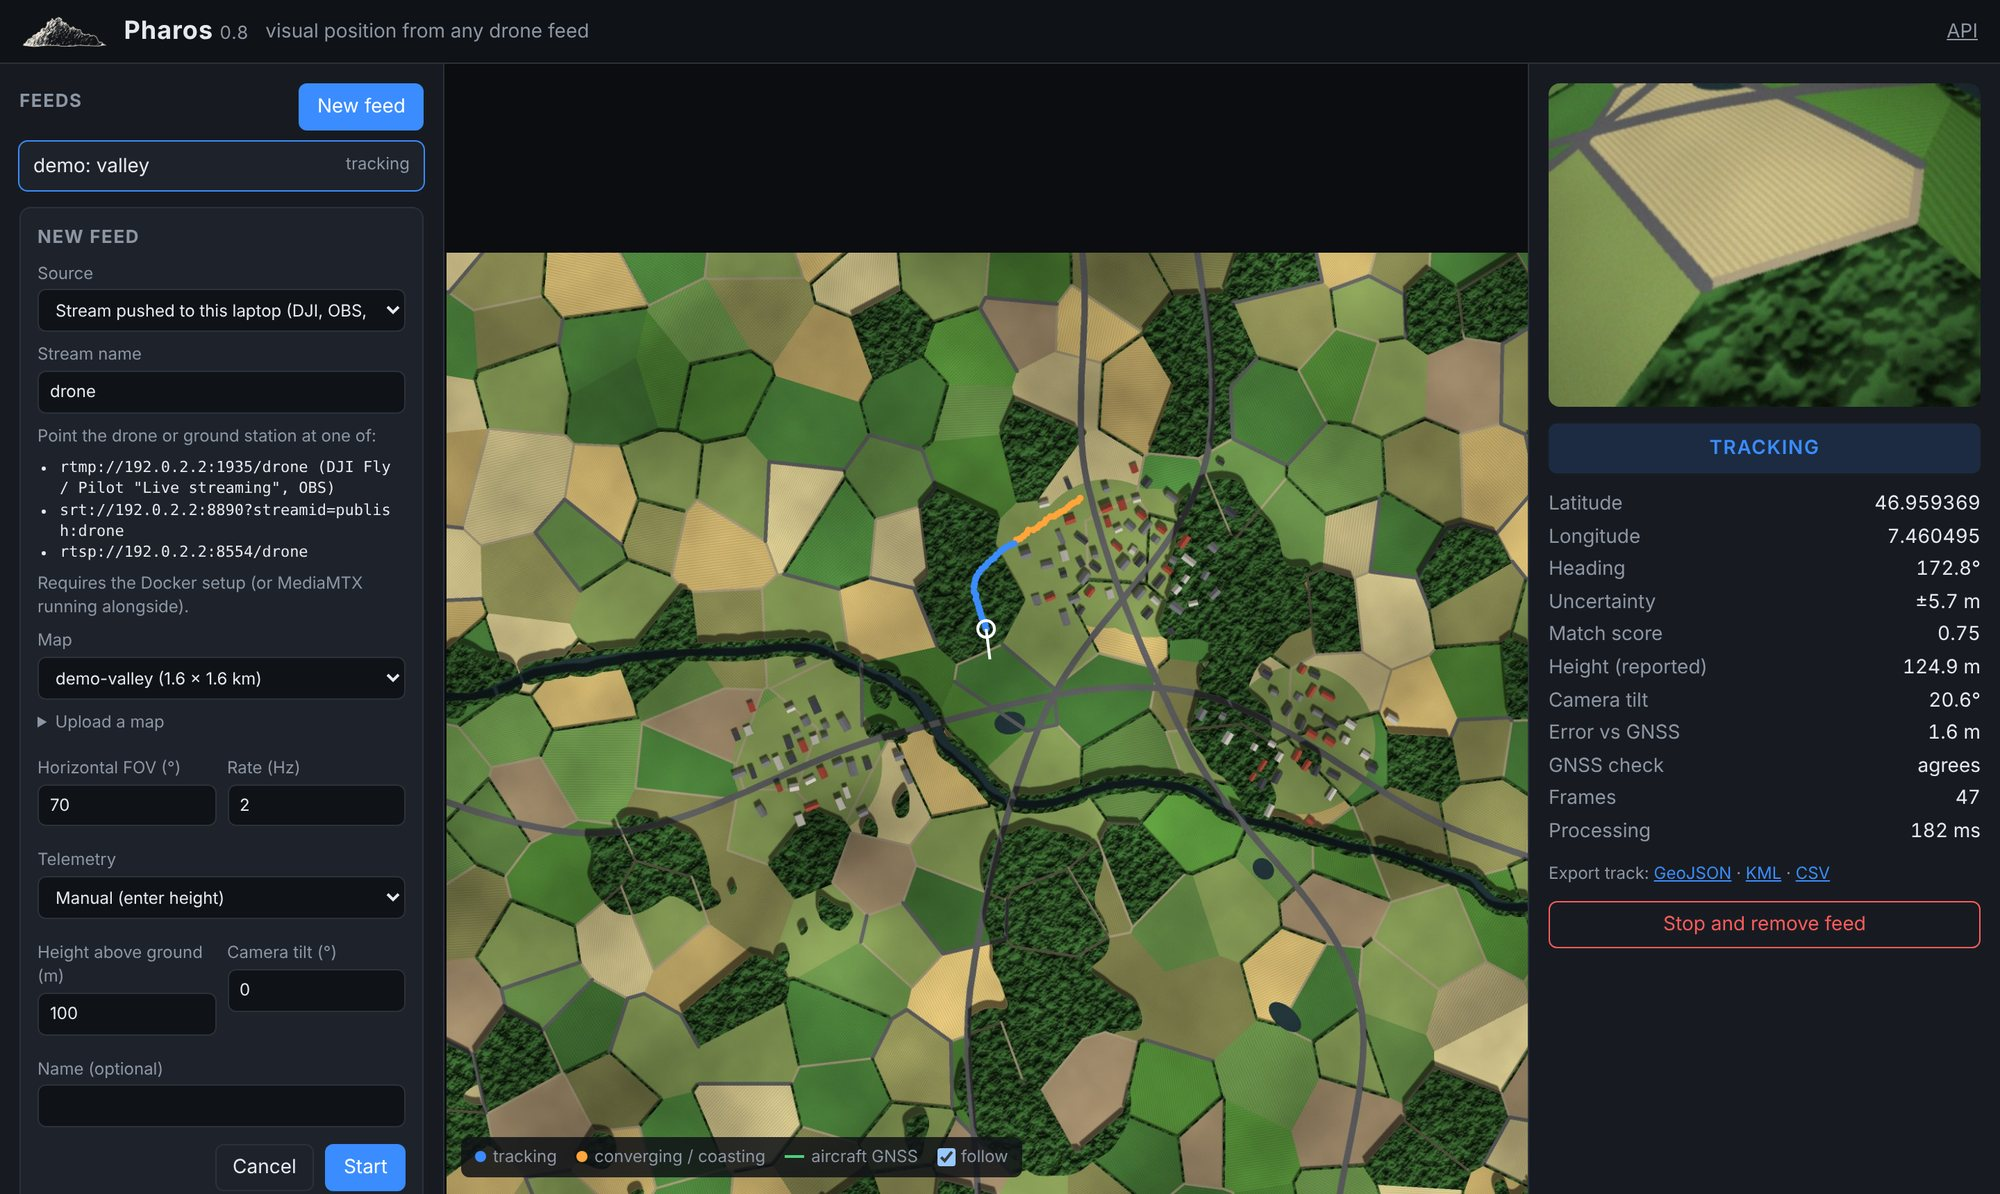
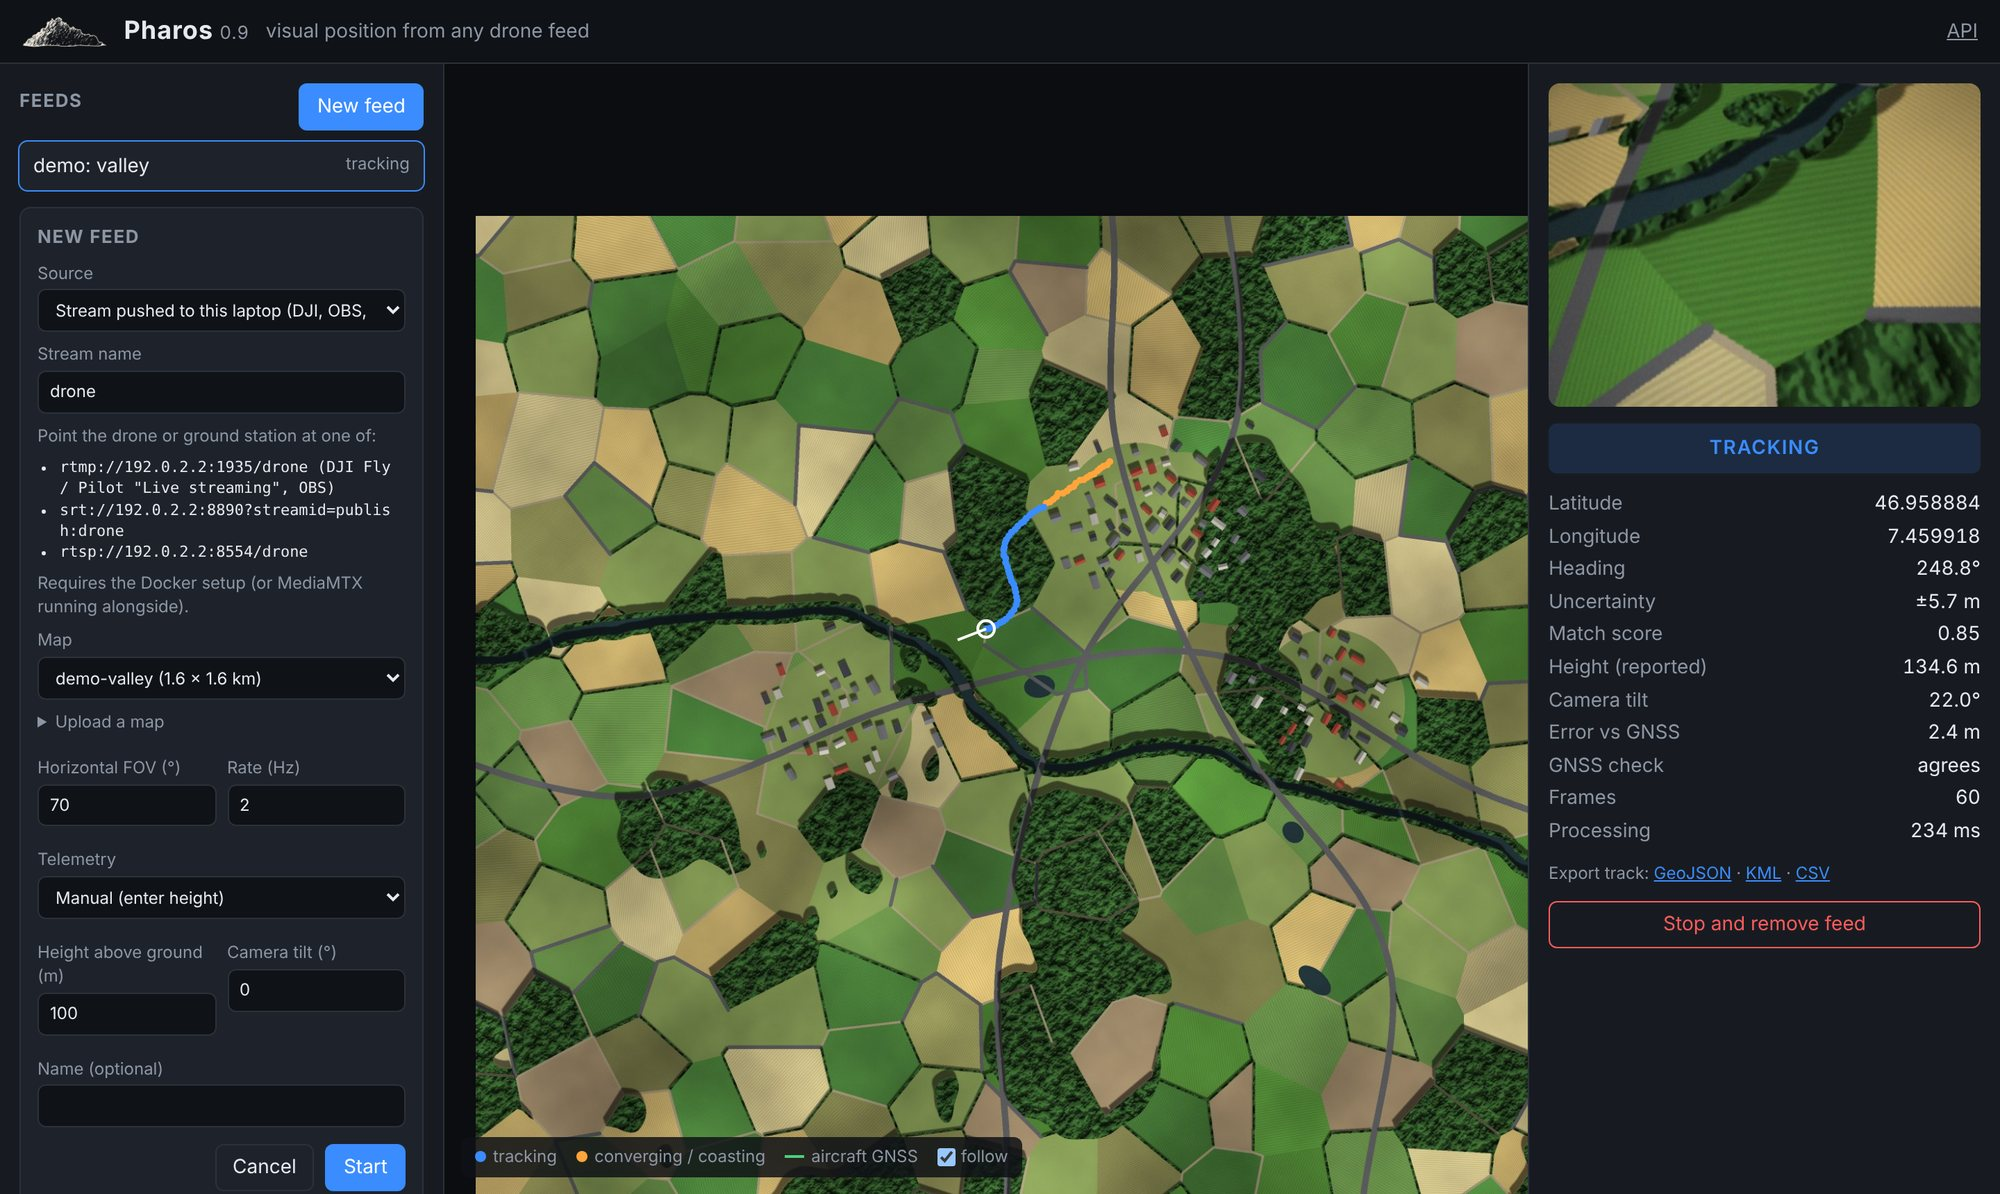
Pharos 0.9: confirm low flights by frame lengths, not metres (opt-in)
Two options for a faster first fix low down, both off by default:
confirm_footprints counts the ground a candidate has matched across in
frame lengths, and distinct_footprints waives the map-wide
distinctiveness test once a candidate is matched across enough of them.

In simulation nothing was trusted wrongly and mean coverage over the 31
scenarios rose from 75% to 81%; pasture at 40 m went from no fix to 60%.
A fresh real-flight check (PinPoint 2) did not reproduce the published
baseline, so the options stay opt-in. Measurements in docs/results.md.

diff --git a/src/pharos/server/static/index.html b/src/pharos/server/static/index.html
@@ -3,14 +3,14 @@
 <head>
   <meta charset="utf-8">
   <meta name="viewport" content="width=device-width, initial-scale=1">
-  <title>Pharos 0.8</title>
+  <title>Pharos 0.9</title>
   <link rel="icon" type="image/png" href="/static/logo.png">
   <link rel="stylesheet" href="/static/style.css">
 </head>
 <body>
   <header>
     <img class="logo" src="/static/logo.png" alt="">
-    <h1>Pharos <span class="version">0.8</span></h1>
+    <h1>Pharos <span class="version">0.9</span></h1>
     <span class="tagline">visual position from any drone feed</span>
     <a href="/api/docs" target="_blank" rel="noopener">API</a>
   </header>

diff --git a/src/pharos/nav/localizer.py b/src/pharos/nav/localizer.py
@@ -104,6 +104,14 @@ class LocalizerConfig:
     # Confirmation
     confirm_frames: int = 4
     confirm_distance_m: float = 120.0  # ground covered before a candidate can win
+    # ...or, if set, this many frame lengths of ground along the flight, whichever is less.
+    # 120 m is about one frame length at 110 m; low down it is several, and on a 40 m
+    # flight the true candidate, matched in 22 of 24 frames, died a few metres short.
+    confirm_footprints: float | None = None
+    # A candidate matched across this many frame lengths need not have stood out map-wide
+    # (None: it must). From 40 m one frame of hedged pasture rarely stands out from the
+    # whole map, but a run of matches over fresh ground, moving as odometry says, does.
+    distinct_footprints: float | None = None
     confirm_margin: float = 0.06  # mean-score lead over the runner-up
     # Tracking
     track_min_score: float = 0.18
@@ -170,6 +178,7 @@ class _Hypothesis:
     last_hit_t: float = 0.0
     last_hit_xy: np.ndarray | None = None
     travelled: float = 0.0  # distance between matched positions, not dead reckoning
+    lengths: float = 0.0  # the same in frame lengths along the flight, at each step's height
     distinct: float = 0.0  # best map-wide distinctiveness seen when (re)acquired here
     refound: int = 0  # times a later wide search found it again
     trusted: bool = True  # False after coasting, until re-confirmed by consecutive matches
@@ -520,11 +529,15 @@ class Localizer:
             needed, distance = cfg.confirm_frames, cfg.confirm_distance_m
         if (
             hits < needed
-            or best.travelled < distance
+            or (
+                best.travelled < distance
+                and not (cfg.confirm_footprints and best.lengths >= cfg.confirm_footprints)
+            )
             or best.mean_score < cfg.init_min_score
             or not (
                 best.distinct >= cfg.init_min_distinctiveness
                 or 0 < cfg.refound_distinct <= best.refound
+                or (cfg.distinct_footprints is not None and best.lengths >= cfg.distinct_footprints)
             )
         ):
             return
@@ -638,7 +651,12 @@ class Localizer:
         if h.streak >= cfg.reconfirm_frames and flown >= cfg.reconfirm_distance_m:
             h.trusted = True
         if h.last_hit_xy is not None:
-            h.travelled += float(np.hypot(*(h.xy - h.last_hit_xy)))
+            step = float(np.hypot(*(h.xy - h.last_hit_xy)))
+            h.travelled += step
+            if cfg.confirm_footprints or cfg.distinct_footprints is not None:
+                h.lengths += step / self._frame_length(
+                    frame, h.scale if cfg.candidate_scales else self.scale
+                )
         h.last_hit_t, h.last_hit_xy = frame.t, h.xy
         return fix
 
@@ -897,6 +915,17 @@ class Localizer:
         if not height > 0:  # the belief would put it underground
             return frame
         return replace(frame, telemetry=replace(tel, altitude=height, above_takeoff=False))
+
+    def _frame_length(self, frame: Frame, scale: float) -> float:
+        """Ground covered by ``frame`` along the flight (the image's vertical), metres."""
+        tel = frame.telemetry
+        seen = max(scale * tel.altitude, self.cfg.min_altitude_m)
+        try:
+            fp = footprint(self.camera, seen, tel.pitch, tel.roll)
+        except ValueError:
+            return float("inf")
+        forward = fp.outline[:, 1]
+        return float(forward.max() - forward.min()) if forward.size else float("inf")
 
     def _anywhere(self) -> np.ndarray:
         """Points spread over where the aircraft may be: the prior region, or the map."""

diff --git a/tests/test_localization.py b/tests/test_localization.py
@@ -439,3 +439,26 @@ def test_a_scale_at_the_edge_of_the_search_is_only_a_bound(small_sim):
     loc.scale = 1.0
     loc._learn(replace(low, scale=0.94, scale_edge=0), frame)
     assert 1.0 - edge == pytest.approx(0.25 * (1.0 - loc.scale))
+
+
+def test_confirmation_distance_counts_frame_lengths(small_sim):
+    geomap, rec = small_sim
+    loc = Localizer(geomap, rec.camera, LocalizerConfig())
+    frame = rec.frames[0]
+    tel = frame.telemetry
+    level = replace(frame, telemetry=replace(tel, altitude=40.0, pitch=0.0, roll=0.0))
+    length = loc._frame_length(level, 1.0)
+    # straight down, the image's vertical covers height * rows / focal length of ground
+    expected = 40.0 * (rec.camera.height - 1) / rec.camera.fy
+    assert length == pytest.approx(expected, rel=0.02)
+    assert loc._frame_length(level, 2.0) == pytest.approx(2 * length, rel=0.02)
+
+
+def test_a_low_flight_confirms_after_frame_lengths_not_metres(small_sim):
+    geomap, rec = small_sim
+    strict = LocalizerConfig(confirm_distance_m=1e9)  # never far enough in metres
+    assert np.isnan(evaluate(localize(geomap, rec, strict), rec.truth)["time_to_fix_s"])
+    by_frames = replace(strict, confirm_footprints=1.0, distinct_footprints=2.5)
+    m = evaluate(localize(geomap, rec, by_frames), rec.truth)
+    assert np.isfinite(m["time_to_fix_s"])
+    assert m["misleading"] == 0.0

diff --git a/src/pharos/__init__.py b/src/pharos/__init__.py
@@ -1,3 +1,3 @@
 """Pharos: absolute visual localization of drone video against satellite imagery."""
 
-__version__ = "0.8"
+__version__ = "0.9"

diff --git a/docs/results.md b/docs/results.md
@@ -392,6 +392,65 @@ to about 6 m).
   live misleading); correcting heights from the start's speed when the takeoff
   is known (see the Vienna forest above).
 
+### Confirming by frame lengths (Pharos 0.9, off by default)
+
+Tracing pasture at 40 m showed two more walls in front of a true candidate
+that the wide search had already found. It matched 22 of 24 frames within
+1 to 3 m, then died 6 m short of the 120 m a candidate must fly to be
+confirmed. And from 40 m one frame of hedged pasture almost never stands out
+from the whole map, so even past 120 m it could not pass the map-wide
+distinctiveness test.
+
+120 m was set at 110 m, where it is about one frame length of fresh ground.
+At 40 m it is three. Two options count ground in frame lengths along the
+flight, at the height each candidate sees:
+
+* `confirm_footprints: 1.0` confirms after one frame length of matched
+  flight, or 120 m, whichever comes first.
+* `distinct_footprints: 2.5` waives the map-wide distinctiveness test for
+  a candidate matched across 2.5 frame lengths: a run of matches over fresh
+  ground, moving as odometry says, singles a place out where one frame
+  cannot.
+
+In simulation, with `evict_stale` as well, nothing was trusted wrongly in
+any scenario and every reported uncertainty held. Over the 31 benchmark
+scenarios mean coverage rose from 75% to 81% and the first fix typically
+came in 6 s instead of 9 to 12. The far spoofed start went from 59% to 91%,
+and the low winter sun at 50 m, which never confirmed before, reached 24%.
+The one cost was dusk haze, whose 95th-percentile error grew from 5.4 to
+13.1 m, still within its sigmas. On flights flown 40 and 60 m up over four
+backdrops:
+
+| scenario | before: cover, fix s | after: cover, fix s |
+|---|---:|---:|
+| pasture, 40 m | 0%, never | 60%, 29.0 |
+| pasture, 60 m | 82%, 21.0 | 92%, 9.0 |
+| bog and coast, 40 m | 60%, 42.0 | 65%, 36.0 |
+| farmland grid, 40 m | 11%, 49.0 | 27%, 39.5 |
+| nominal, 40 m | 58%, 15.5 | 77%, 4.5 |
+| nominal, 60 m | 76%, 10.0 | 87%, 3.5 |
+
+Without `evict_stale` most of this holds (pasture at 40 m 54%, nominal and
+bog unchanged); eviction mainly adds the farmland grid.
+
+They stay off because the real-flight check was not clean. PinPoint flight 2
+was fetched afresh (video and log from Zenodo, PNOA over WMS at 0.5 m) and
+this setup did not reproduce the published baseline: with the defaults it
+covered 28% of the whole flight, trusting 1.6% of frames wrongly, against
+91% and none above. Flight 1's mount calibration was off for this footage
+(`pharos probe` measured 0.4° back and 1.8° right on flight 2 itself, used
+for both runs below, so the comparison is in-sample). On the same setup the
+two options, without `evict_stale`, raised whole-flight coverage from 28%
+to 54% with no frame trusted wrongly (from 1.6%), and live coverage from
+18% to 28%, but live they trusted 2 frames of 1,961 wrongly (0.1%, within
+three sigmas) where the defaults trusted none. Until the published setup is
+reproduced and the options hold on both PinPoint flights, they are opt-in:
+
+```yaml
+confirm_footprints: 1.0
+distinct_footprints: 2.5
+```
+
 ## Open problems, in detail
 
 * **Acquisition speed.** A whole-map search normalizes the frame-shaped
@@ -416,7 +475,8 @@ to about 6 m).
   it averaged 77% against 81% over four runs of flight 2 (one sample up 12
   points, the other down 16), was neutral on flight 1 and BAMBI, and still
   confirmed nothing on BAMBI from a cold start. `refound_distinct: 3`
-  changed no simulated flight at all.
+  changed no simulated flight at all. Confirming by frame lengths (above)
+  goes further in simulation and is the current candidate for a default.
 * **An Irish flight.** The Irish scenarios are simulated. The test that
   counts is a real flight over Irish pasture or bog against a free map of
   it, which in Ireland means surveying the area once yourself (see

diff --git a/README.md b/README.md
@@ -2,7 +2,7 @@
   <img src="docs/img/logo.png" alt="Pharos" width="420">
 </p>
 
-<h1 align="center">Pharos 0.8</h1>
+<h1 align="center">Pharos 0.9</h1>
 
 <p align="center">
   <a href="https://github.com/ahroonsanthosh/pharos/actions/workflows/ci.yml"><img src="https://github.com/ahroonsanthosh/pharos/actions/workflows/ci.yml/badge.svg" alt="ci"></a>
@@ -104,9 +104,12 @@ pharos bench -j 4 -o runs/bench
 pharos serve --open
 ```
 
-Next on my list: a real flight over Irish pasture or bog, a faster first
-fix at low altitude, learned features as an optional matcher, and lens
-distortion correction.
+Next on my list: a real flight over Irish pasture or bog, learned features
+as an optional matcher, and lens distortion correction. A faster first fix
+for low flights is in as an opt-in: in simulation it gets a position in
+about 6 s instead of 10, and at 40 m over pasture where it used to find
+none, but I want it to hold on real flights before it becomes the default
+([details](docs/results.md#confirming-by-frame-lengths-pharos-09-off-by-default)).
 
 ## License
 
